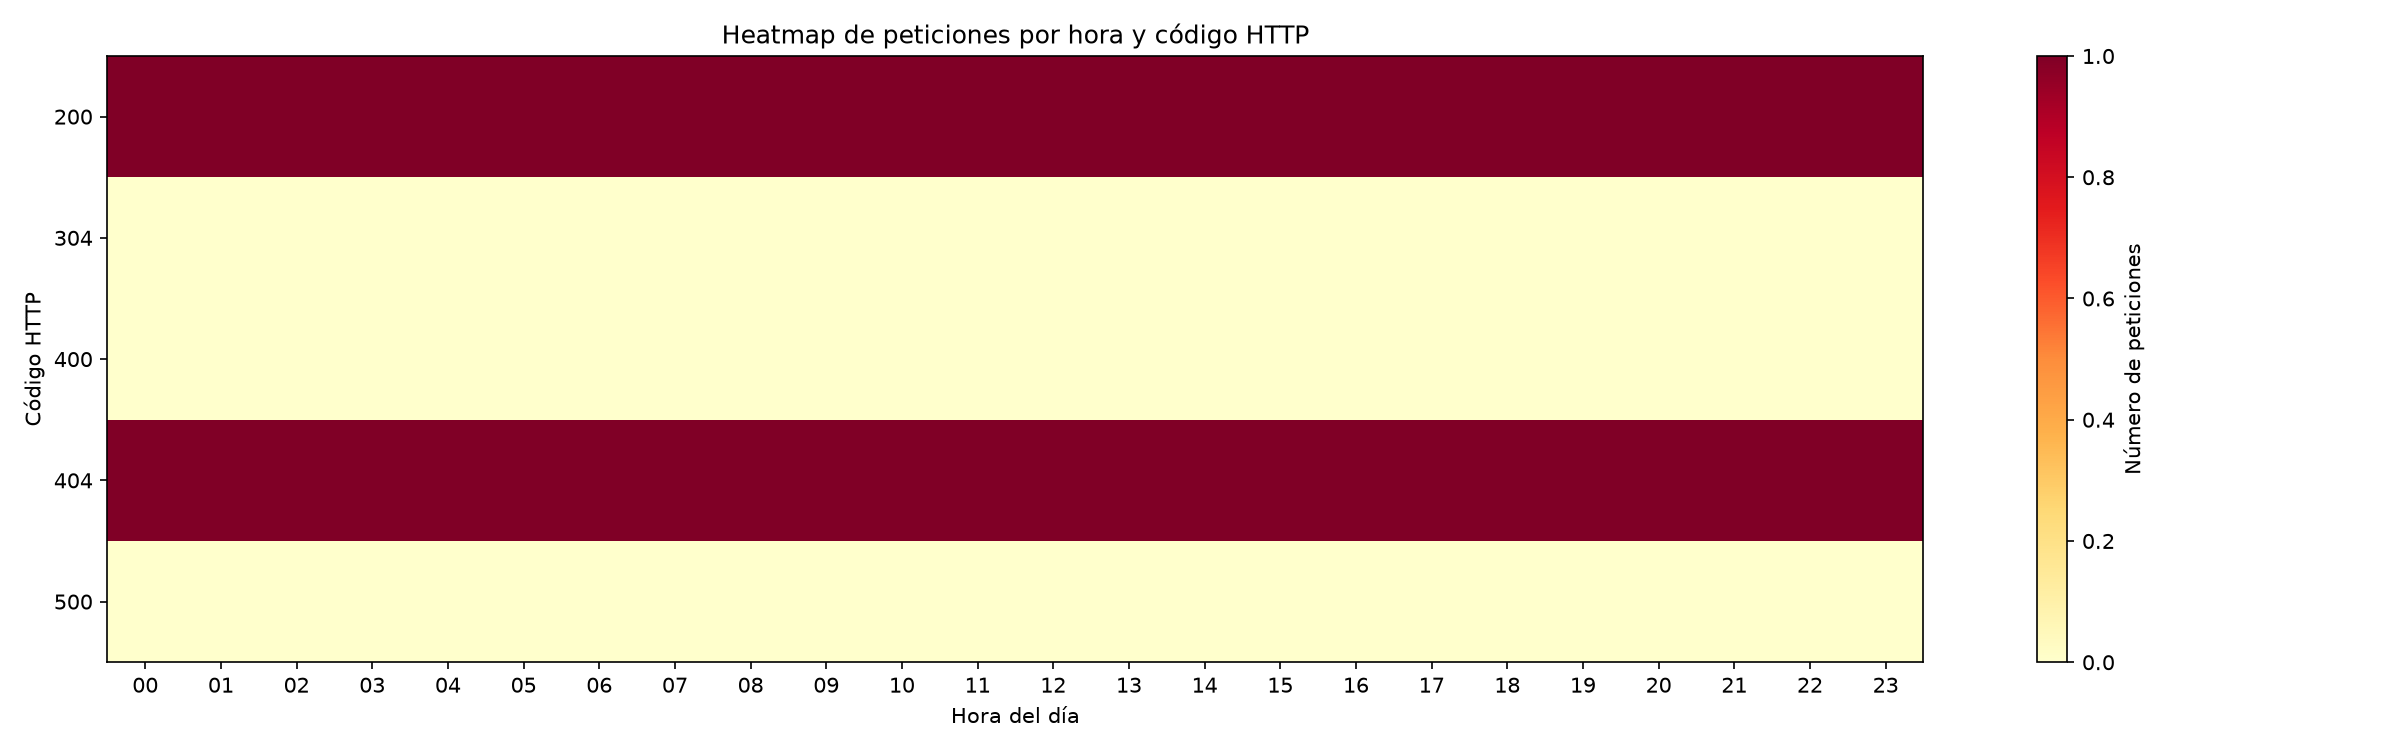
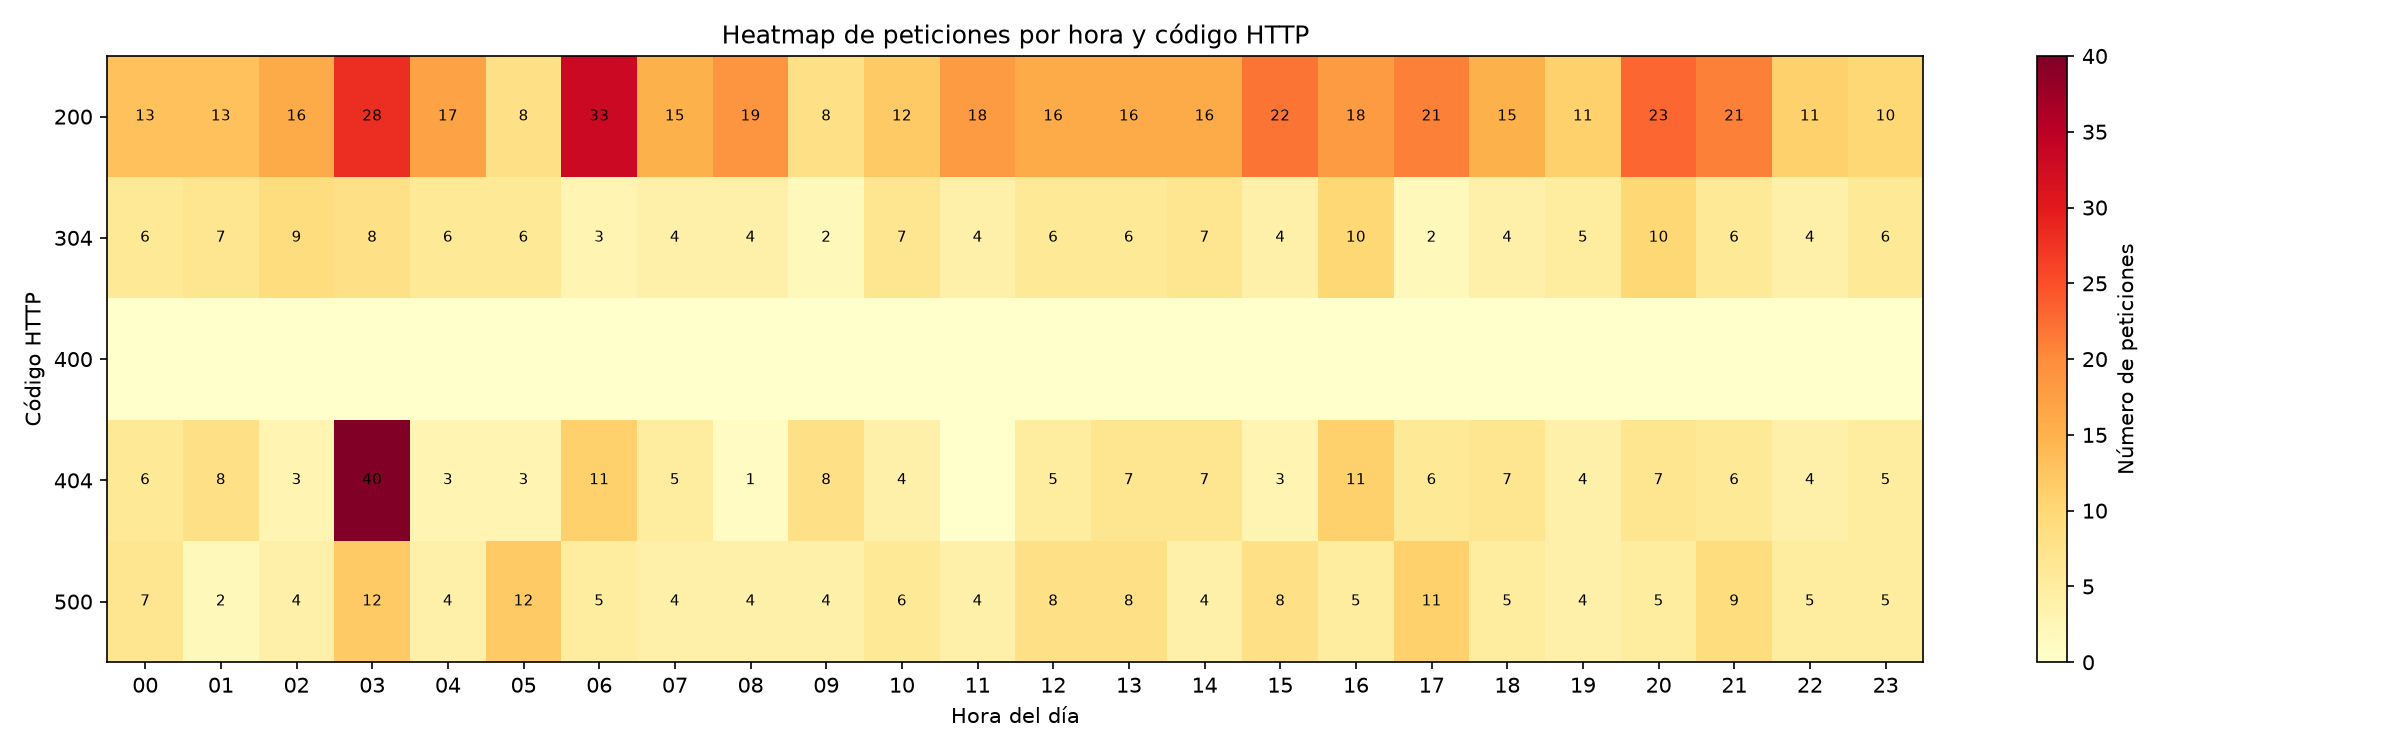
fix(lab1): corregido heatmap con datos reales por hora y código HTTP

diff --git a/lab1/visualizar.py b/lab1/visualizar.py
@@ -1,9 +1,14 @@
 import json
+import re
 import matplotlib
 matplotlib.use("Agg")
 import matplotlib.pyplot as plt
-import matplotlib.ticker as ticker
 import numpy as np
+from collections import defaultdict
+
+PATRON_LOG = re.compile(
+    r'(\d+\.\d+\.\d+\.\d+) - - \[(.+?)\] "\S+ \S+ \S+" (\d+)'
+)
 
 def grafica_top10_ssh():
     with open("reporte_ssh.json") as f:
@@ -43,32 +48,51 @@ def grafica_timeline_http():
     print("[+] Guardada: graficas/timeline_http.png")
 
 def grafica_heatmap():
-    with open("reporte_web.json") as f:
-        data = json.load(f)
+    # Leer directamente del access.log para obtener hora y código real
+    codigos_interes = [200, 304, 400, 404, 500]
+    # hora (0-23) x codigo
+    matriz = defaultdict(lambda: defaultdict(int))
 
-    horas = [str(h).zfill(2) for h in range(24)]
-    codigos = [200, 304, 400, 404, 500]
-    matriz = np.zeros((len(codigos), len(horas)), dtype=int)
+    with open("access.log", "r") as f:
+        for linea in f:
+            m = PATRON_LOG.search(linea)
+            if not m:
+                continue
+            fecha_str = m.group(2)   # ej: 14/Jun/2024:03:13:44 +0000
+            codigo = int(m.group(3))
+            # Extraer hora: "14/Jun/2024:03:13:44" → hora = "03" → 3
+            try:
+                hora = int(fecha_str.split(":")[1])
+            except:
+                continue
+            if codigo in codigos_interes:
+                matriz[hora][codigo] += 1
 
-    # Reconstruir matriz desde top_ips_errores
-    for entrada in data["top_ips_errores"]:
-        for cod_str, cnt in entrada["detalle"].items():
-            cod = int(cod_str)
-            if cod in codigos:
-                fila = codigos.index(cod)
-                # Distribuir uniformemente entre horas (aproximación)
-                for h in range(24):
-                    matriz[fila][h] += cnt // 24
+    # Construir la matriz numpy ordenada
+    horas = list(range(24))
+    datos = np.zeros((len(codigos_interes), 24), dtype=int)
+    for h in horas:
+        for j, cod in enumerate(codigos_interes):
+            datos[j][h] = matriz[h][cod]
 
     fig, ax = plt.subplots(figsize=(16, 5))
-    im = ax.imshow(matriz, aspect="auto", cmap="YlOrRd")
+    im = ax.imshow(datos, aspect="auto", cmap="YlOrRd", interpolation="nearest")
     ax.set_xticks(range(24))
-    ax.set_xticklabels(horas)
-    ax.set_yticks(range(len(codigos)))
-    ax.set_yticklabels([str(c) for c in codigos])
+    ax.set_xticklabels([str(h).zfill(2) for h in range(24)])
+    ax.set_yticks(range(len(codigos_interes)))
+    ax.set_yticklabels([str(c) for c in codigos_interes])
     ax.set_xlabel("Hora del día")
     ax.set_ylabel("Código HTTP")
     ax.set_title("Heatmap de peticiones por hora y código HTTP")
+
+    # Añadir valores en cada celda
+    for i in range(len(codigos_interes)):
+        for j in range(24):
+            val = datos[i][j]
+            if val > 0:
+                ax.text(j, i, str(val), ha="center", va="center",
+                        fontsize=7, color="black")
+
     plt.colorbar(im, ax=ax, label="Número de peticiones")
     plt.tight_layout()
     plt.savefig("graficas/heatmap_http.png", dpi=150)